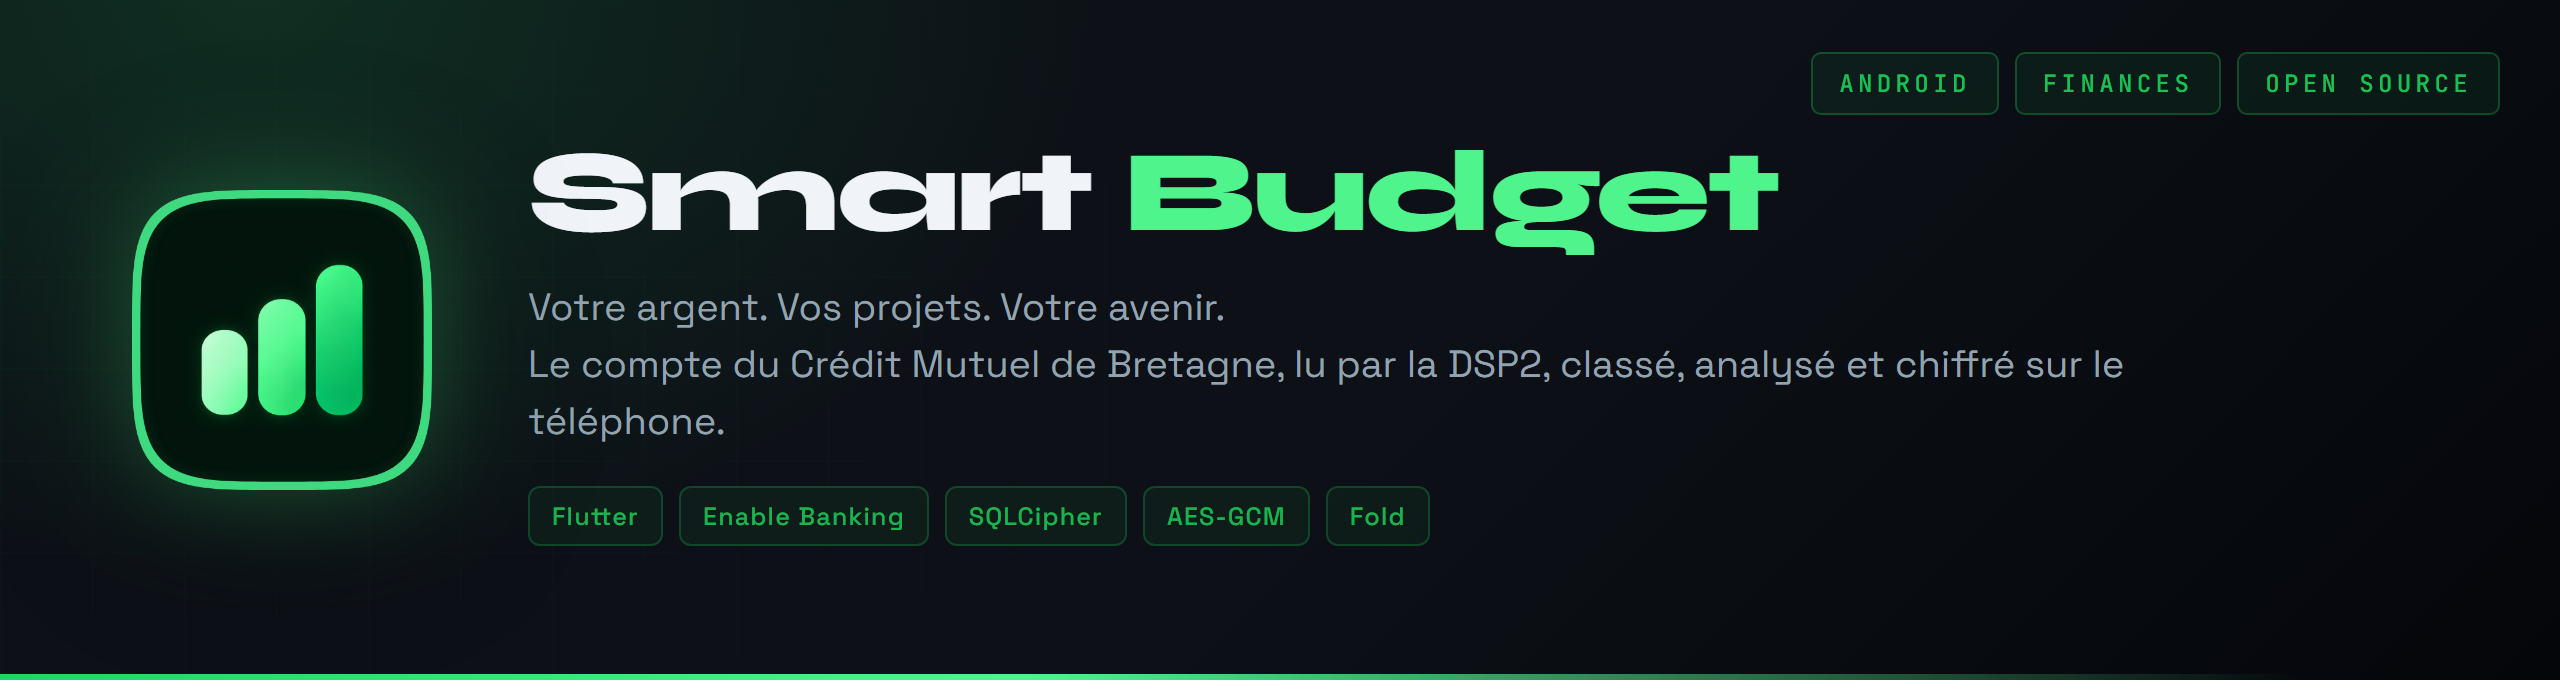
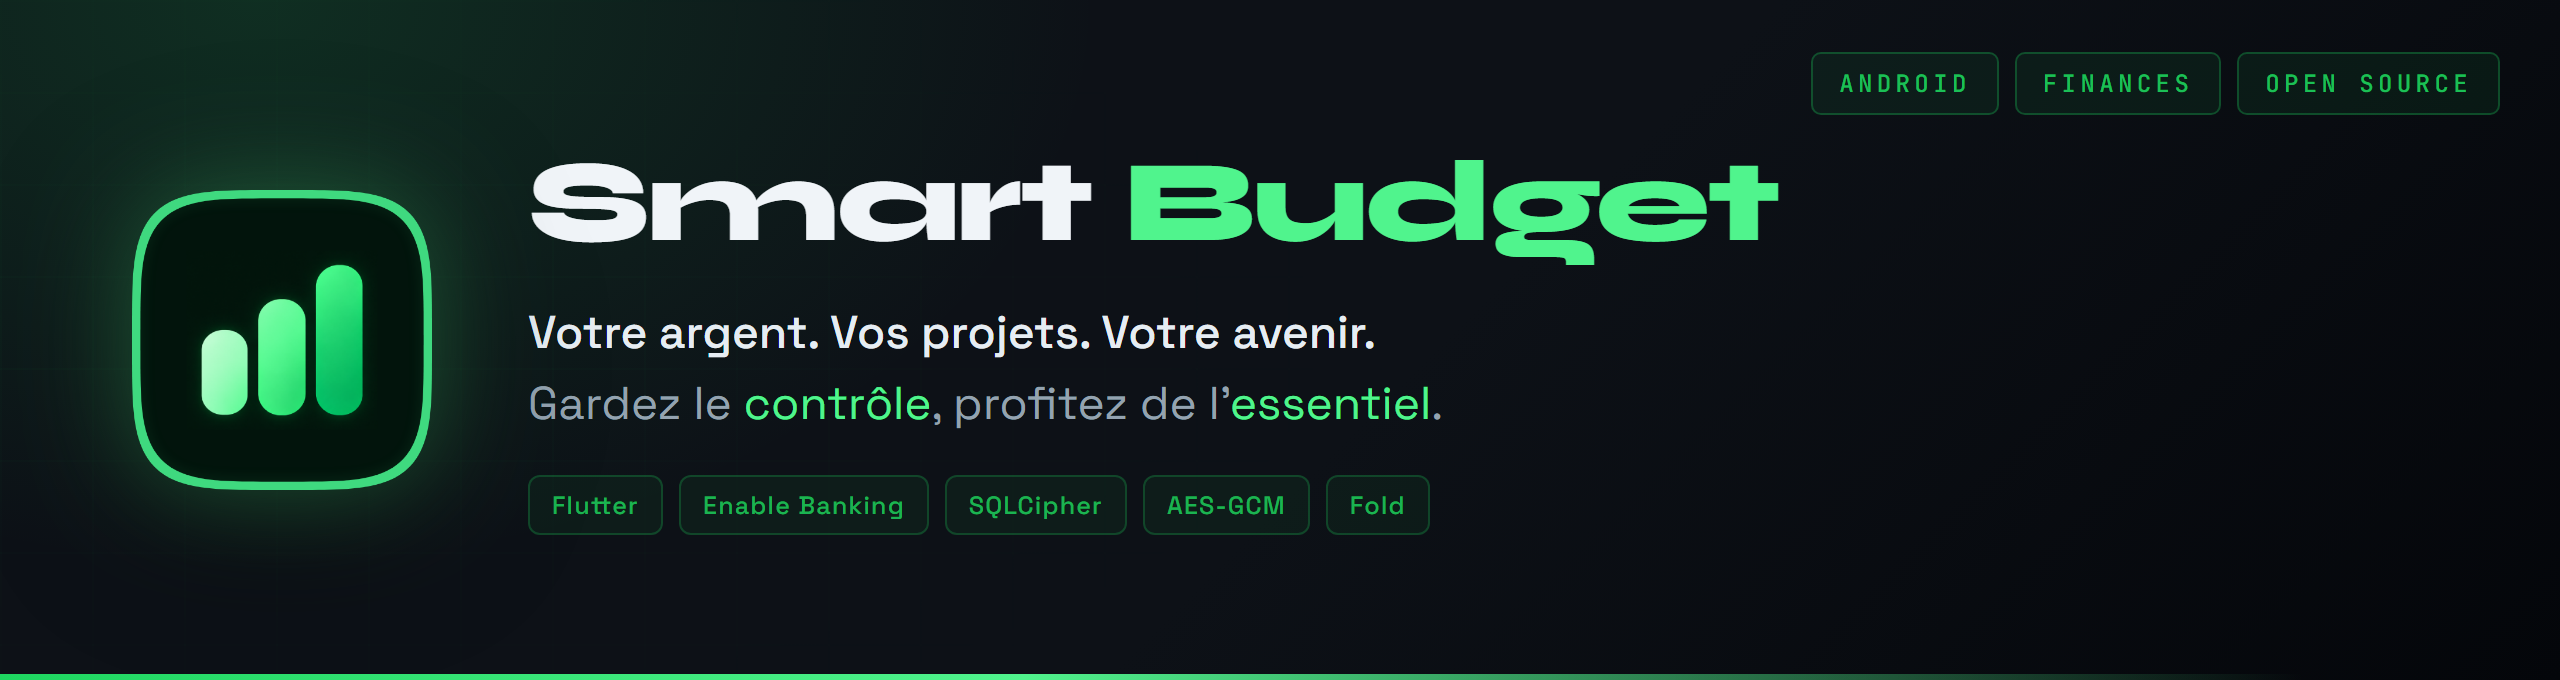
Nouveau slogan, rail avec ses symboles, geste retour en traînée verte
La bannière et l'aperçu disent : Votre argent. Vos projets. Votre avenir.
Gardez le contrôle, profitez de l'essentiel. Dans l'écran déplié, le rail
reprend les symboles de l'application, la pile n'a plus de cadre vert et
le geste retour devient le toucher vert qui file vers la gauche.

Claude-Session: https://claude.ai/code/session_01NXLhh24fksVRhN8kDArzP8

Changed region(s): [[0.1875, 0.4324, 0.8438, 0.6485], [0.1875, 0.2162, 0.7188, 0.4015], [0.2188, 0.7103, 0.5625, 0.8029]]

diff --git a/docs/tools/anime.js b/docs/tools/anime.js
@@ -401,9 +401,13 @@ const P = {
   // Le cadre de la tablette et son rail.
   corps += `<rect x="${X0 - 104}" y="${Y0 - 14}" width="${2 * V + GAP + 118}" height="${HT + 28}" rx="24" fill="#0A0E14" stroke="#2F3A47"/>`;
   corps += `<rect x="${X0 - 90}" y="${Y0}" width="88" height="${HT}" rx="0" fill="#0F141B"/>`;
-  ['Mois', 'Analyse', 'Épargne', 'Réglages'].forEach((n, k) => {
-    const y = Y0 + 70 + k * 56;
-    corps += `<rect x="${X0 - 76}" y="${y - 20}" width="60" height="30" rx="15" fill="${k === 1 ? '#FFFFFF1A' : 'none'}"/>${t(X0 - 46, y + 26, n, { taille: 10.5, couleur: k === 1 ? TITRE : DISCRET, ancre: 'middle' })}<circle cx="${X0 - 46}" cy="${y - 5}" r="7" fill="none" stroke="${k === 1 ? TITRE : DISCRET}" stroke-width="1.6"/>`;
+  // Les mêmes symboles que l'application, pleins pour l'onglet actif.
+  const S = require('./symboles.json');
+  [['home', 'Mois'], ['pie_chart', 'Analyse'], ['savings', 'Épargne'], ['settings', 'Réglages']].forEach(([s, n], k) => {
+    const y = Y0 + 70 + k * 56, actif = k === 1;
+    const d = S[actif ? s + '-fill' : s];
+    corps += `<rect x="${X0 - 76}" y="${y - 20}" width="60" height="30" rx="15" fill="${actif ? '#FFFFFF1A' : 'none'}"/>${t(X0 - 46, y + 26, n, { taille: 10.5, couleur: actif ? TITRE : DISCRET, ancre: 'middle' })}
+      <path transform="translate(${X0 - 57},${y - 16}) scale(${22 / 960}) translate(0,960)" d="${d}" fill="${actif ? TITRE : DISCRET}"/>`;
   });
   corps += `<clipPath id="fenetre"><rect x="${X0}" y="${Y0}" width="${2 * V + GAP}" height="${HT}"/></clipPath>`;
   corps += `<g clip-path="url(#fenetre)"><g transform="translate(${X0},0)">
@@ -413,57 +417,46 @@ const P = {
   // Le doigt : un toucher, puis le geste retour.
   const doigt = (x, y, de) => `<circle cx="${x}" cy="${y}" r="16" fill="${NEON}" opacity="0">${fondu('opacity', C, [[0, 0], [de, 0], [de + 0.015, 0.5], [de + 0.05, 0], [1, 0]])}${fondu('r', C, [[0, 10], [de, 10], [de + 0.05, 26], [1, 26]])}</circle>`;
   corps += doigt(X0 + V + 60, Y0 + 116, 0.1) + doigt(X0 + V + 60, Y0 + 116, 0.26) + doigt(X0 + V + 60, Y0 + 116, 0.42);
-  // Le geste retour d'Android, trois fois : le doigt part du bord droit et
-  // glisse vers la gauche, et la bulle du système sort du bord avec sa
-  // flèche, s'étire, puis se retire quand le volet se referme.
-  const bord = X0 + 2 * V + GAP, milieu = Y0 + HT / 2;
+  // Le geste retour, trois fois : le même toucher vert que pour ouvrir,
+  // posé au bord droit, qui file vers la gauche en laissant une traînée,
+  // puis s'éteint en onde quand le doigt lâche et que le volet se referme.
+  const bord = X0 + 2 * V + GAP, milieu = Y0 + HT / 2, course = 210;
+  corps += `<linearGradient id="trainee" x1="0" x2="1"><stop offset="0" stop-color="${NEON}" stop-opacity="0.75"/><stop offset="1" stop-color="${NEON}" stop-opacity="0"/></linearGradient>`;
   const retour = (de) => {
-    const a = de + 0.05; // le doigt lâche, le volet se referme
-    const e = (v0, v1, v2) => [[0, v0], [de, v0], [de + 0.035, v1], [a, v2], [Math.min(a + 0.01, 1), v0], [1, v0]];
-    return `<g opacity="0">${fondu('opacity', C, [[0, 0], [de - 0.005, 0], [de, 1], [a, 1], [a + 0.01, 0], [1, 0]])}
-      <rect y="${milieu - 34}" height="68" rx="34" fill="#1B2330" fill-opacity="0.94" stroke="#FFFFFF" stroke-opacity="0.12">
-        ${fondu('x', C, e(bord, bord - 46, bord - 58))}${fondu('width', C, e(0, 80, 92))}</rect>
-      <path d="M0 -10 L-9 0 L0 10" fill="none" stroke="${TITRE}" stroke-width="3.2" stroke-linecap="round" stroke-linejoin="round">
-        <animateTransform attributeName="transform" type="translate" dur="${C}s" repeatCount="indefinite"
-          keyTimes="${e(0, 0, 0).map((x) => x[0]).join(';')}" values="${e(bord + 12, bord - 20, bord - 28).map((x) => `${x[1]} ${milieu}`).join(';')}"/></path>
-      <g>
-        <animateTransform attributeName="transform" type="translate" dur="${C}s" repeatCount="indefinite"
-          keyTimes="${e(0, 0, 0).map((x) => x[0]).join(';')}" values="${e(bord - 6, bord - 70, bord - 120).map((x) => `${x[1]} ${milieu + 70}`).join(';')}"/>
-        <circle r="22" fill="#FFFFFF" fill-opacity="0.10"/>
-        <circle r="13" fill="#FFFFFF" fill-opacity="0.28" stroke="#FFFFFF" stroke-opacity="0.55" stroke-width="1.5"/>
+    const a = de + 0.04; // le doigt lâche, le volet se referme
+    const x0 = bord - 14, x1 = x0 - course;
+    const glisse = (v0, v1) => `keyTimes="0;${de};${a};1" values="${v0};${v0};${v1};${v1}" calcMode="spline" keySplines="0 0 1 1;0.45 0 0.2 1;0 0 1 1"`;
+    const vie = [[0, 0], [de - 0.004, 0], [de, 1], [a, 1], [a + 0.012, 0], [1, 0]];
+    return `<g>
+      <circle cx="${x0}" cy="${milieu}" r="10" fill="${NEON}" opacity="0">${fondu('opacity', C, [[0, 0], [de, 0], [de + 0.012, 0.5], [de + 0.04, 0], [1, 0]])}${fondu('r', C, [[0, 10], [de, 10], [de + 0.04, 28], [1, 28]])}</circle>
+      <rect y="${milieu - 5}" height="10" rx="5" fill="url(#trainee)" opacity="0">${fondu('opacity', C, vie)}
+        <animate attributeName="x" dur="${C}s" repeatCount="indefinite" ${glisse(x0, x1)}/>
+        <animate attributeName="width" dur="${C}s" repeatCount="indefinite" ${glisse(0, course)}/></rect>
+      <g filter="url(#halo)" opacity="0">${fondu('opacity', C, vie)}
+        <circle cy="${milieu}" r="13" fill="${NEON}"><animate attributeName="cx" dur="${C}s" repeatCount="indefinite" ${glisse(x0, x1)}/></circle>
       </g>
+      <circle cx="${x1}" cy="${milieu}" r="13" fill="none" stroke="${NEON}" stroke-width="2" opacity="0">${fondu('opacity', C, [[0, 0], [a, 0], [a + 0.003, 0.8], [a + 0.035, 0], [1, 0]])}${fondu('r', C, [[0, 13], [a, 13], [a + 0.035, 34], [1, 34]])}</circle>
     </g>`;
   };
   corps += `<g clip-path="url(#fenetre)">${retour(0.55) + retour(0.67) + retour(0.79)}</g>`;
-  // La pile, à droite. Chaque page ouverte s'y empile ; les deux dernières
-  // sont celles de l'écran, dans le cadre vert, qui descend et remonte avec
-  // elles. Les pages plus anciennes restent derrière, en retrait.
+  // La pile, à droite : chaque page ouverte s'y ajoute, chaque retour
+  // retire la dernière.
   const px = 968, pl = 196, ph = 38, pas_ = 48, py = Y0 + 34;
   const nombres = [2, 2, 3, 3, 4, 4, 5, 5, 4, 4, 3, 3, 2, 2];
-  corps += t(px, Y0 + 12, 'LA PILE', { taille: 11, couleur: DISCRET, police: MONO, extra: 'letter-spacing="2"' });
+  corps += t(px, Y0 + 12, 'PAGES OUVERTES', { taille: 11, couleur: DISCRET, police: MONO, extra: 'letter-spacing="2"' });
   // Le fil qui relie les pages, de la plus ancienne à la plus récente.
   corps += `<line x1="${px + 14}" y1="${py + ph / 2}" x2="${px + 14}" y2="${py + ph / 2}" stroke="${FIL}" stroke-width="2">
     ${fondu('y2', C, instants.map((ins, i) => [ins, py + ph / 2 + (nombres[i] - 1) * pas_]))}</line>`;
   pages.forEach((p, k) => {
     const y = py + k * pas_;
-    // Absente, derrière l'écran, ou à l'écran.
-    const op = nombres.map((n) => (k >= n ? 0 : k >= n - 2 ? 1 : 0.42));
+    const op = nombres.map((n) => (k < n ? 1 : 0));
     corps += `<g>${fondu('opacity', C, instants.map((ins, i) => [ins, op[i]]))}
       <circle cx="${px + 14}" cy="${y + ph / 2}" r="5" fill="${FOND}" stroke="${couleurs[k]}" stroke-width="2"/>
       <rect x="${px + 30}" y="${y}" width="${pl - 30}" height="${ph}" rx="9" fill="${CARTE}" stroke="${BORD}"/>
       ${t(px + 44, y + 24, p[1], { taille: 13, couleur: TITRE })}
     </g>`;
   });
-  // Le cadre de l'écran : il entoure toujours les deux dernières pages.
-  const yCadre = (n) => py + (n - 2) * pas_ - 7;
-  corps += `<g>
-    <animateTransform attributeName="transform" type="translate" dur="${C}s" repeatCount="indefinite"
-      keyTimes="${instants.join(';')}" values="${nombres.map((n) => `0 ${yCadre(n) - yCadre(2)}`).join(';')}"
-      calcMode="spline" keySplines="${instants.slice(1).map(() => '0.4 0 0.2 1').join(';')}"/>
-    <rect x="${px + 22}" y="${yCadre(2)}" width="${pl - 14}" height="${pas_ + ph + 14}" rx="13" fill="${VERT}" fill-opacity="0.06" stroke="${VERT}" stroke-opacity="0.8" stroke-width="1.5" filter="url(#halo)"/>
-    ${t(px + pl + 16, yCadre(2) + (pas_ + ph + 14) / 2 + 4, 'à l’écran', { taille: 11.5, couleur: VERT, police: MONO })}
-  </g>`;
-  corps += t(640, 440, 'Les deux derniers volets de la pile se montrent côte à côte ; la ligne ouverte à droite reste surlignée à gauche.', { taille: 13, couleur: DISCRET, ancre: 'middle' });
+  corps += t(640, 440, 'Les deux dernières pages ouvertes se montrent côte à côte ; la ligne ouverte à droite reste surlignée à gauche.', { taille: 13, couleur: DISCRET, ancre: 'middle' });
   svg('volets.svg', 1280, 462, corps,
-    'L’écran déplié. Une tablette avec son rail à gauche montre deux volets côte à côte. Toucher Logement dans la liste des dépenses pousse tout vers la gauche et ouvre Logement à droite ; puis Loyer ; puis l’opération Foncia Loyer. La ligne ouverte reste surlignée dans le volet de gauche. Le geste retour d’Android, un doigt qui glisse depuis le bord droit et sa bulle fléchée, referme les volets un à un, jusqu’à l’analyse. À droite, la pile des pages ouvertes s’allonge puis se vide ; un cadre vert entoure toujours les deux dernières, celles de l’écran.');
+    'L’écran déplié. Une tablette avec son rail à gauche montre deux volets côte à côte. Toucher Logement dans la liste des dépenses pousse tout vers la gauche et ouvre Logement à droite ; puis Loyer ; puis l’opération Foncia Loyer. La ligne ouverte reste surlignée dans le volet de gauche. Le geste retour, un toucher vert qui file du bord droit vers la gauche, referme les volets un à un, jusqu’à l’analyse. À droite, la liste des pages ouvertes s’allonge puis se vide.');
 }

diff --git a/README.md b/README.md
@@ -1,6 +1,6 @@
 <div align="center">
 
-<img src="docs/banniere.png" alt="Smart Budget : votre argent, vos projets, votre avenir. Le compte du Crédit Mutuel de Bretagne, lu par la DSP2, classé, analysé et chiffré sur le téléphone. Flutter, Enable Banking, SQLCipher, AES-GCM, Fold." width="100%">
+<img src="docs/banniere.png" alt="Smart Budget : votre argent, vos projets, votre avenir. Gardez le contrôle, profitez de l'essentiel. Flutter, Enable Banking, SQLCipher, AES-GCM, Fold." width="100%">
 
 </div>
 
@@ -83,7 +83,7 @@ Un budget honnête ne compte pas deux fois le même argent.
 
 <img src="docs/sections/s07.png" alt="07 L'écran déplié" width="100%">
 
-<img src="docs/schemas/volets.svg" alt="L'écran déplié. Deux volets côte à côte à droite du rail. Toucher Logement pousse tout vers la gauche et ouvre Logement à droite, puis Loyer, puis l'opération Foncia Loyer. La ligne ouverte reste surlignée à gauche. Le geste retour d'Android, un doigt qui glisse depuis le bord droit et sa bulle fléchée, referme les volets un à un. À droite, la pile des pages ouvertes s'allonge puis se vide, et un cadre vert entoure toujours les deux dernières, celles qui sont à l'écran." width="100%">
+<img src="docs/schemas/volets.svg" alt="L'écran déplié. Deux volets côte à côte à droite du rail. Toucher Logement pousse tout vers la gauche et ouvre Logement à droite, puis Loyer, puis l'opération Foncia Loyer. La ligne ouverte reste surlignée à gauche. Le geste retour, un toucher vert qui file du bord droit vers la gauche, referme les volets un à un. À droite, la liste des pages ouvertes s'allonge puis se vide." width="100%">
 
 Un écran de téléphone étiré sur huit pouces ne ressemble plus à rien. Sur le Fold ouvert, les pages forment une seule grande page dont on voit les deux derniers volets : on descend de l'analyse à l'opération sans jamais perdre d'où l'on vient, et le geste retour de Samsung referme le dernier volet. Chaque colonne se resserre au besoin pour tout montrer d'un coup, sans défiler. Les saisies s'ouvrent dans une carte au-dessus du clavier, jamais dans une feuille qui monte du bas.
 
